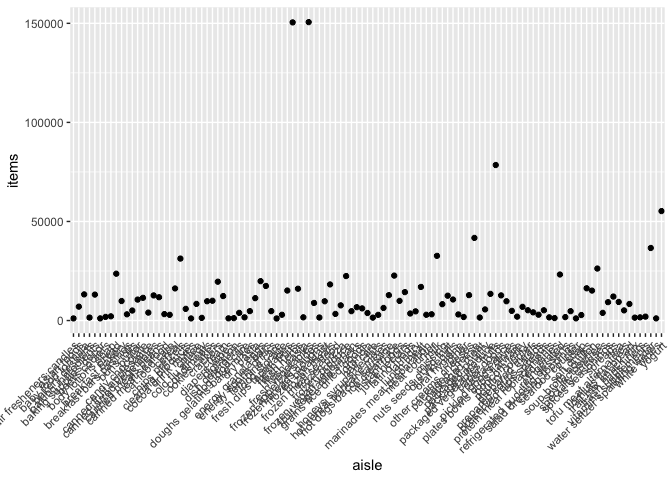
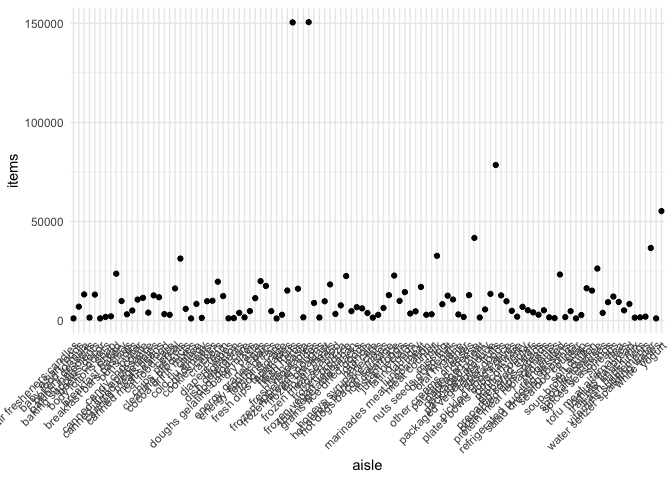
updated my plot settings to those shown in class, editted part of my answers to Problem 1 after looking briefly at the provided answers and began working on Problem 2 which involved cleaning the data and futher data maniupulation and visualizations according to the instructions.

diff --git a/p8105_hw3_gvs2113.md b/p8105_hw3_gvs2113.md
@@ -17,6 +17,18 @@ library(tidyverse)
     ## ✖ dplyr::lag()    masks stats::lag()
     ## ℹ Use the conflicted package (<http://conflicted.r-lib.org/>) to force all conflicts to become errors
 
+``` r
+theme_set(theme_minimal() + theme(legend.position = "bottom"))
+
+options(
+  ggplot2.continuous.colour = "viridis",
+  ggplot2.continuous.fill = "viridis"
+)
+
+scale_colour_discrete = scale_colour_viridis_d
+scale_fill_discrete = scale_fill_viridis_d
+```
+
 ## Problem 1
 
 This problem uses a cleaned and reduced version of a dataset entitled:
@@ -102,7 +114,7 @@ number of orders for each:
 
 ``` r
 instacart |> 
-  filter(aisle == c("baking ingredients", "dog food care", "packaged vegetables fruits")) |> 
+  filter(aisle %in% c("baking ingredients", "dog food care", "packaged vegetables fruits")) |> 
   group_by(aisle, product_name) |> 
   summarize(items = n()) |> 
   top_n(3) |> 
@@ -113,55 +125,40 @@ instacart |>
     ## `.groups` argument.
     ## Selecting by items
 
-| aisle                      | product_name                                    | items |
-|:---------------------------|:------------------------------------------------|------:|
-| baking ingredients         | Light Brown Sugar                               |   157 |
-| baking ingredients         | Organic Vanilla Extract                         |   122 |
-| baking ingredients         | Pure Baking Soda                                |   140 |
-| dog food care              | Organix Chicken & Brown Rice Recipe             |    13 |
-| dog food care              | Organix Grain Free Chicken & Vegetable Dog Food |    14 |
-| dog food care              | Original Dry Dog                                |     9 |
-| packaged vegetables fruits | Organic Baby Spinach                            |  3324 |
-| packaged vegetables fruits | Organic Blueberries                             |  1692 |
-| packaged vegetables fruits | Organic Raspberries                             |  1920 |
+| aisle                      | product_name                                  | items |
+|:---------------------------|:----------------------------------------------|------:|
+| baking ingredients         | Cane Sugar                                    |   336 |
+| baking ingredients         | Light Brown Sugar                             |   499 |
+| baking ingredients         | Pure Baking Soda                              |   387 |
+| dog food care              | Organix Chicken & Brown Rice Recipe           |    28 |
+| dog food care              | Small Dog Biscuits                            |    26 |
+| dog food care              | Snack Sticks Chicken & Rice Recipe Dog Treats |    30 |
+| packaged vegetables fruits | Organic Baby Spinach                          |  9784 |
+| packaged vegetables fruits | Organic Blueberries                           |  4966 |
+| packaged vegetables fruits | Organic Raspberries                           |  5546 |
 
 Table showing mean hour of the day at which Pink Lady Apples and Coffee
 Ice Cream are ordered on each day of the week:
 
 ``` r
 instacart |> 
-  filter(product_name == c("Pink Lady Apples", "Coffee Ice Cream")) |> 
+  filter(product_name %in% c("Pink Lady Apples", "Coffee Ice Cream")) |> 
   group_by(product_name, order_dow) |> 
-  summarize(
-    mean_hour = mean(order_hour_of_day)
+  summarize(mean_hour = mean(order_hour_of_day)) |> 
+  pivot_wider(
+    names_from = order_dow, 
+    values_from = mean_hour
   ) |> 
   knitr::kable(digits = 1)
 ```
 
-    ## Warning: There was 1 warning in `filter()`.
-    ## ℹ In argument: `product_name == c("Pink Lady Apples", "Coffee Ice Cream")`.
-    ## Caused by warning in `product_name == c("Pink Lady Apples", "Coffee Ice Cream")`:
-    ## ! longer object length is not a multiple of shorter object length
-
     ## `summarise()` has grouped output by 'product_name'. You can override using the
     ## `.groups` argument.
 
-| product_name     | order_dow | mean_hour |
-|:-----------------|----------:|----------:|
-| Coffee Ice Cream |         0 |      13.2 |
-| Coffee Ice Cream |         1 |      15.0 |
-| Coffee Ice Cream |         2 |      15.3 |
-| Coffee Ice Cream |         3 |      15.4 |
-| Coffee Ice Cream |         4 |      15.2 |
-| Coffee Ice Cream |         5 |      10.3 |
-| Coffee Ice Cream |         6 |      12.4 |
-| Pink Lady Apples |         0 |      12.2 |
-| Pink Lady Apples |         1 |      11.7 |
-| Pink Lady Apples |         2 |      12.0 |
-| Pink Lady Apples |         3 |      13.9 |
-| Pink Lady Apples |         4 |      11.9 |
-| Pink Lady Apples |         5 |      13.9 |
-| Pink Lady Apples |         6 |      11.6 |
+| product_name     |    0 |    1 |    2 |    3 |    4 |    5 |    6 |
+|:-----------------|-----:|-----:|-----:|-----:|-----:|-----:|-----:|
+| Coffee Ice Cream | 13.8 | 14.3 | 15.4 | 15.3 | 15.2 | 12.3 | 13.8 |
+| Pink Lady Apples | 13.4 | 11.4 | 11.7 | 14.2 | 11.6 | 12.8 | 11.9 |
 
 ## Problem 2
 
@@ -169,3 +166,109 @@ instacart |>
 library(p8105.datasets)
 data("brfss_smart2010")
 ```
+
+Data Cleaning:
+
+``` r
+brfss_smart2010 = 
+brfss_smart2010 |> 
+  janitor::clean_names() |> 
+  filter( 
+    topic == "Overall Health",
+    response %in% c("Poor", "Fair", "Good", "Very Good", "Excellent")) |> 
+  mutate(response = factor(response, levels = c("Poor", "Fair", "Good", "Very Good", "Excellent"), ordered = TRUE))
+```
+
+In 2002 which states were observed at 7 or more locations?
+
+``` r
+brfss_smart2010 |> 
+  filter (year == "2002") |> 
+  group_by (locationabbr) |> 
+  summarize (locations = n_distinct(locationdesc)) |> 
+  filter (locations >= 7) 
+```
+
+    ## # A tibble: 6 × 2
+    ##   locationabbr locations
+    ##   <chr>            <int>
+    ## 1 CT                   7
+    ## 2 FL                   7
+    ## 3 MA                   8
+    ## 4 NC                   7
+    ## 5 NJ                   8
+    ## 6 PA                  10
+
+In 2002, there were 6 states that were observed at 7 or more locations.
+
+In 2010?
+
+``` r
+brfss_smart2010 |> 
+  filter (year == "2010") |> 
+  group_by (locationabbr) |> 
+  summarize (locations = n_distinct(locationdesc)) |> 
+  filter (locations >= 7) 
+```
+
+    ## # A tibble: 14 × 2
+    ##    locationabbr locations
+    ##    <chr>            <int>
+    ##  1 CA                  12
+    ##  2 CO                   7
+    ##  3 FL                  41
+    ##  4 MA                   9
+    ##  5 MD                  12
+    ##  6 NC                  12
+    ##  7 NE                  10
+    ##  8 NJ                  19
+    ##  9 NY                   9
+    ## 10 OH                   8
+    ## 11 PA                   7
+    ## 12 SC                   7
+    ## 13 TX                  16
+    ## 14 WA                  10
+
+In 2010, there were 14 states that were observed at 7 or more locations.
+
+Construct a dataset limited to “Excellent” responses and then make a
+“spaghetti” plot of average of `data_value` across locations within a
+state.
+
+``` r
+  brfss_smart2010 |> 
+  filter(response == "Excellent") |> 
+  group_by(year, locationabbr, locationdesc) |> 
+  summarize(avg_data_value = mean(data_value)) |> 
+  ggplot(aes(x = year, y = avg_data_value, group = locationabbr, color = locationabbr)) + geom_line() + 
+  labs (
+    title = " Average Data Value across locations within a state for Excellent Responses",
+    x = "Year",
+    y = "Average Data Value",
+    color = "State") 
+```
+
+    ## `summarise()` has grouped output by 'year', 'locationabbr'. You can override
+    ## using the `.groups` argument.
+
+![](p8105_hw3_gvs2113_files/figure-gfm/unnamed-chunk-11-1.png)<!-- -->
+
+Make a 2-panel plot showing distribution of `data_value` for responses
+among NY state locations
+
+``` r
+brfss_smart2010 |> 
+  filter(locationabbr == "NY", 
+         year %in% c("2006", "2010")) |> 
+  ggplot(aes(x = response , y = data_value, group = locationdesc, color = locationdesc)) + geom_line() +
+  facet_wrap(. ~ year) + 
+  labs( 
+    title = "2006 and 2010 Distribtion of Data Values by Responses among NY locations ",
+    x = "Respose",
+    y = "Data Value",
+    color = "Location")
+```
+
+![](p8105_hw3_gvs2113_files/figure-gfm/unnamed-chunk-12-1.png)<!-- -->
+
+## Problem 3
